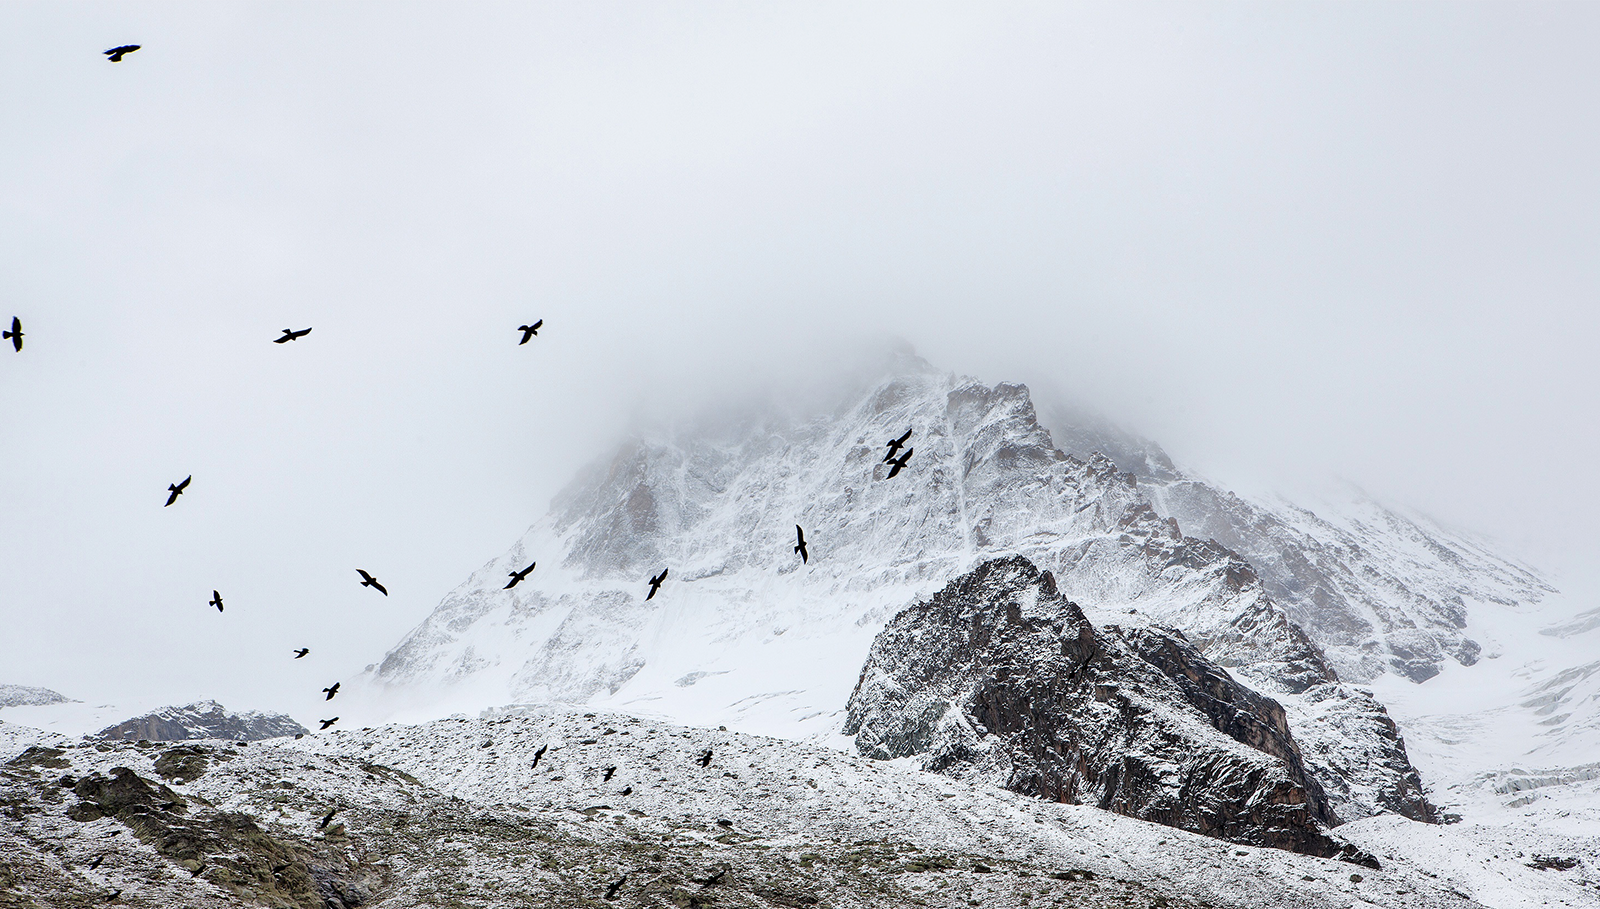
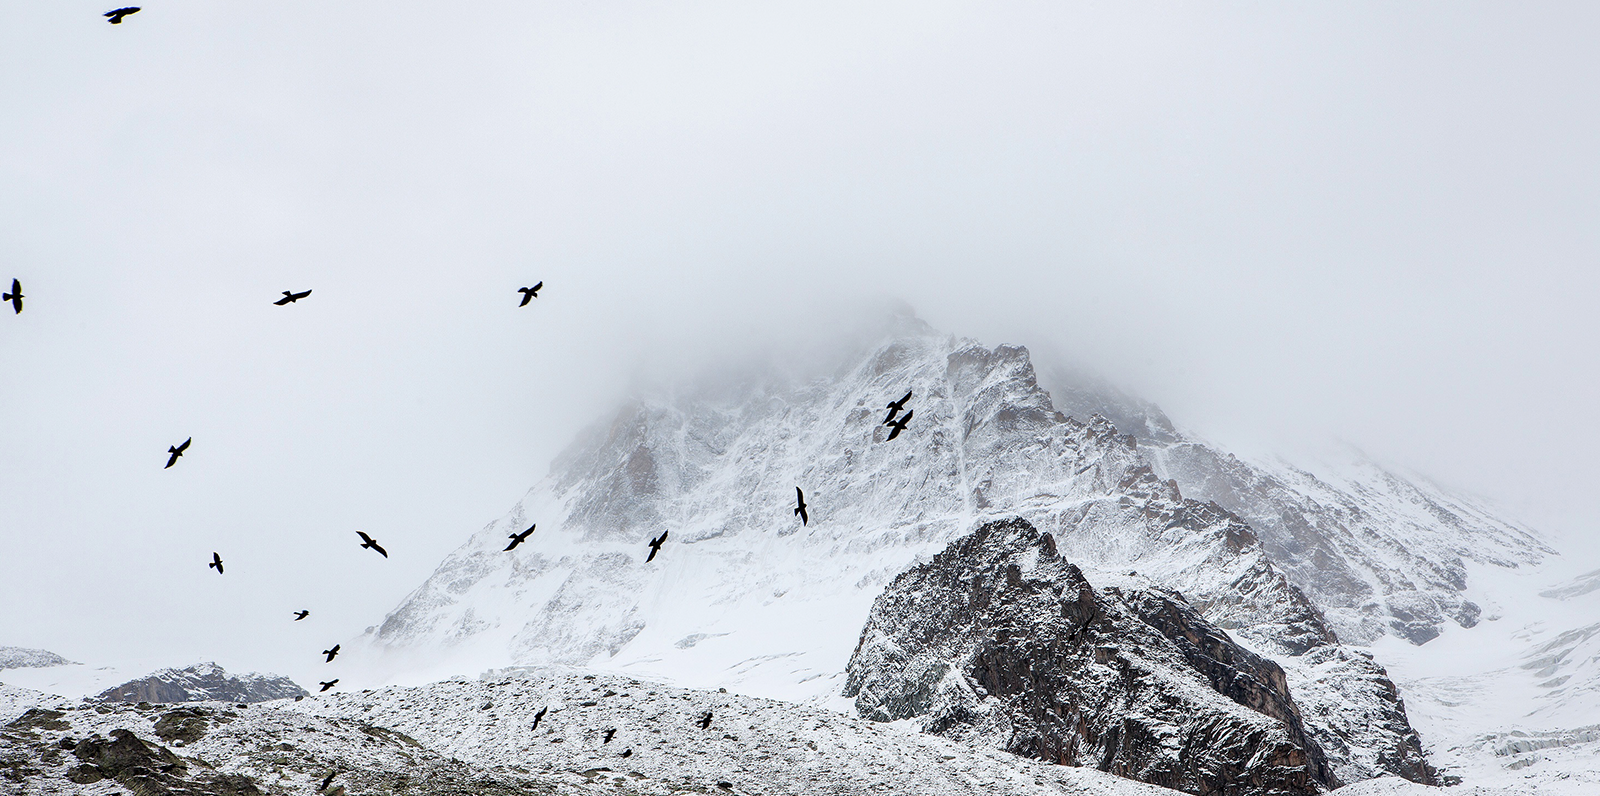
fixed responsiveness, and add background color in smaller screens

diff --git a/components/header.js b/components/header.js
@@ -1,30 +1,40 @@
 const header = () => {
   const headerContainer = document.createElement('div');
-  headerContainer.className = 'flex items-center justify-center flex-col pb-6 md:mx-24';
+  headerContainer.className = 'flex items-center justify-center flex-col pb-6 md:mx-36 md:mt-4';
 
   const wrapContent = document.createElement('div');
   wrapContent.className = 'flex items-center space-y-4 md:space-y-0 md:space-x-4';
 
   const imageElement = document.createElement('img');
   imageElement.src = './hist2.png';
-  imageElement.className = 'w-32 md:w-64';
+  imageElement.className = 'w-32 mt-4 md:w-64';
 
   const textElement = document.createElement('p');
   textElement.textContent =
     'Mount climbs encapsulate the essence of human exploration, resilience, and connection with nature. From the pursuit of personal achievement to the awe-inspiring beauty of untouched landscapes, mountaineering offers an experience unlike any other. As we continue to explore these majestic peaks, let us remember to approach them with respect, responsibility, and a deep appreciation for the wonders of our planets';
   textElement.className = 'text-center md:text-xs text-sm'; 
-  
-  if (window.innerWidth <= 890) {
-    const scrollBox = document.createElement('div');
-    scrollBox.className = 'md:text-xl max-h-32 overflow-y-scroll';
 
-    scrollBox.appendChild(textElement);
-    wrapContent.appendChild(imageElement);
-    wrapContent.appendChild(scrollBox);
-  } else {
-    wrapContent.appendChild(imageElement);
-    wrapContent.appendChild(textElement);
-  }
+  const updateHeaderContent = () => {
+    if (window.innerWidth <= 800) {
+      const scrollBox = document.createElement('div');
+      scrollBox.className = 'md:text-xl max-h-32 overflow-y-scroll';
+
+      scrollBox.appendChild(textElement);
+      wrapContent.innerHTML = '';
+      wrapContent.appendChild(imageElement);
+      wrapContent.appendChild(scrollBox);
+    } else {
+      wrapContent.innerHTML = '';
+      wrapContent.appendChild(imageElement);
+      wrapContent.appendChild(textElement);
+    }
+  };
+
+  updateHeaderContent();
+
+  window.addEventListener('resize', () => {
+    updateHeaderContent();
+  });
 
   headerContainer.appendChild(wrapContent);
 

diff --git a/index.js b/index.js
@@ -1,13 +1,19 @@
 import './global.css'
 import header from './components/header';
-import main from './components/main'
-import footer from './components/footer'
+import main from './components/main';
+import footer from './components/footer';
 
-const indexContainer = document.getElementById('app');
-const headerContent = header();
-const mainContent = main();
-const footerContent = footer();
+const indexContainer = () => {
+  const container = document.getElementById('app');
+  const headerContent = header();
+  const mainContent = main();
+  const footerContent = footer();
 
-indexContainer.appendChild(headerContent);
-indexContainer.appendChild(mainContent);
-indexContainer.appendChild(footerContent);
+  container.style.backgroundColor = 'white'; // Set the background color to pink
+
+  container.appendChild(headerContent);
+  container.appendChild(mainContent);
+  container.appendChild(footerContent);
+}
+
+indexContainer();

diff --git a/components/main.js b/components/main.js
@@ -4,13 +4,25 @@ import accordion from './accordion.js';
 const main = () => {
   const mainContainer = document.createElement('div');
 
-  if (window.innerWidth <= 890) {
-    const accordionElement = accordion();
-    mainContainer.appendChild(accordionElement);
-  } else {
-    const carouselElement = carousel();
-    mainContainer.appendChild(carouselElement);
-  }
+  const updateMainContent = () => {
+    const currentWidth = window.innerWidth;
+
+    if (currentWidth <= 800) {
+      const accordionElement = accordion();
+      mainContainer.innerHTML = '';
+      mainContainer.appendChild(accordionElement);
+    } else {
+      const carouselElement = carousel();
+      mainContainer.innerHTML = '';
+      mainContainer.appendChild(carouselElement);
+    }
+  };
+
+  updateMainContent();
+
+  window.addEventListener('resize', () => {
+    updateMainContent();
+  });
 
   return mainContainer;
 };

diff --git a/components/accordion.js b/components/accordion.js
@@ -25,11 +25,11 @@ const accordion = () => {
 
     const accordionImage = document.createElement('img');
     accordionImage.src = image;
-    accordionImage.className = 'w-[311px] h-[176px]'; 
+    accordionImage.className = 'w-full'; 
 
     const schedImage = document.createElement('img');
     schedImage.src = './sched.png';
-    schedImage.className = 'absolute top-0 left-0 h-full w-full object-cover'; 
+    schedImage.className = 'scale-75 absolute top-0 left-0 h-full w-full object-fit'; 
 
     const existingContainer = accordionBox.querySelector('.relative');
     if (existingContainer) {
@@ -42,7 +42,7 @@ const accordion = () => {
   };
 
   const toggleAccordion = (image, tab) => {
-    if (window.innerWidth <= 890) {
+    if (window.innerWidth <= 800) {
       const isTabOpen = tab.classList.contains('active');
 
       const activeTab = accordionBox.querySelector('.active');

diff --git a/components/carousel.js b/components/carousel.js
@@ -3,7 +3,7 @@ const carousel = () => {
   carouselBox.className = 'bg-slate-600';
 
   const tabs = document.createElement('div');
-  tabs.className = 'flex';
+  tabs.className = 'flex mx-24';
 
   const tab1 = document.createElement('div');
   tab1.textContent = 'MOUNTAIN 1';
@@ -30,11 +30,11 @@ const carousel = () => {
 
     const carouselImage = document.createElement('img');
     carouselImage.src = image;
-    carouselImage.className = 'w-full h-auto md:w-[1216px] md:h-[731px]'; 
+    carouselImage.className = 'w-full h-auto'; 
 
     const schedImage = document.createElement('img');
     schedImage.src = './sched.png';
-    schedImage.className = 'absolute top-20 left-10 opacity-98'; 
+    schedImage.className = 'absolute top-20 left-36 opacity-98 h-auto w-auto'; 
 
     const existingContainer = carouselBox.querySelector('.relative');
     if (existingContainer) {

diff --git a/components/footer.js b/components/footer.js
@@ -1,6 +1,6 @@
 const footer = () => {
   const footerContainer = document.createElement('div');
-  footerContainer.className = 'bg-slate-600 flex items-center py-2 md:py-4 md:px-24';
+  footerContainer.className = 'bg-slate-600 flex items-center py-2 md:py-4 md:px-36';
   const logo = document.createElement('img');
   logo.src = './logo-dark.png';
   logo.className = 'ml-4 md:ml-8';

diff --git a/global.css b/global.css
@@ -18,18 +18,10 @@
   -webkit-text-size-adjust: 100%;
 }
 
-#app {
-  max-width: 1280px;
-  margin: 0 auto;
-  padding: 2rem;
-  text-align: center;
-}
-
-
 @media (prefers-color-scheme: light) {
   :root {
     color: #213547;
-    background-color: #ffffff;
+    background-color: #475569;
   }
   a:hover {
     color: #747bff;
